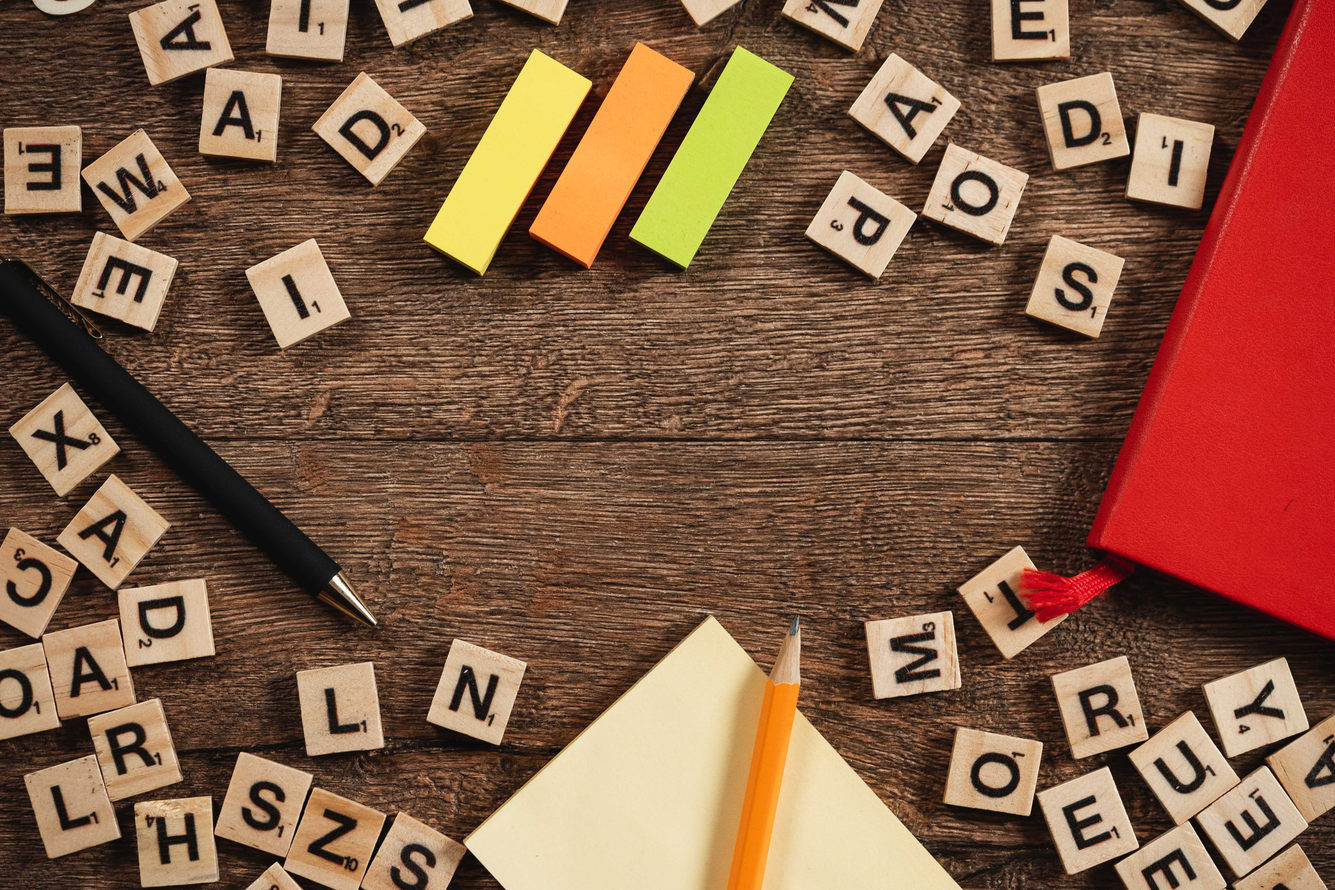
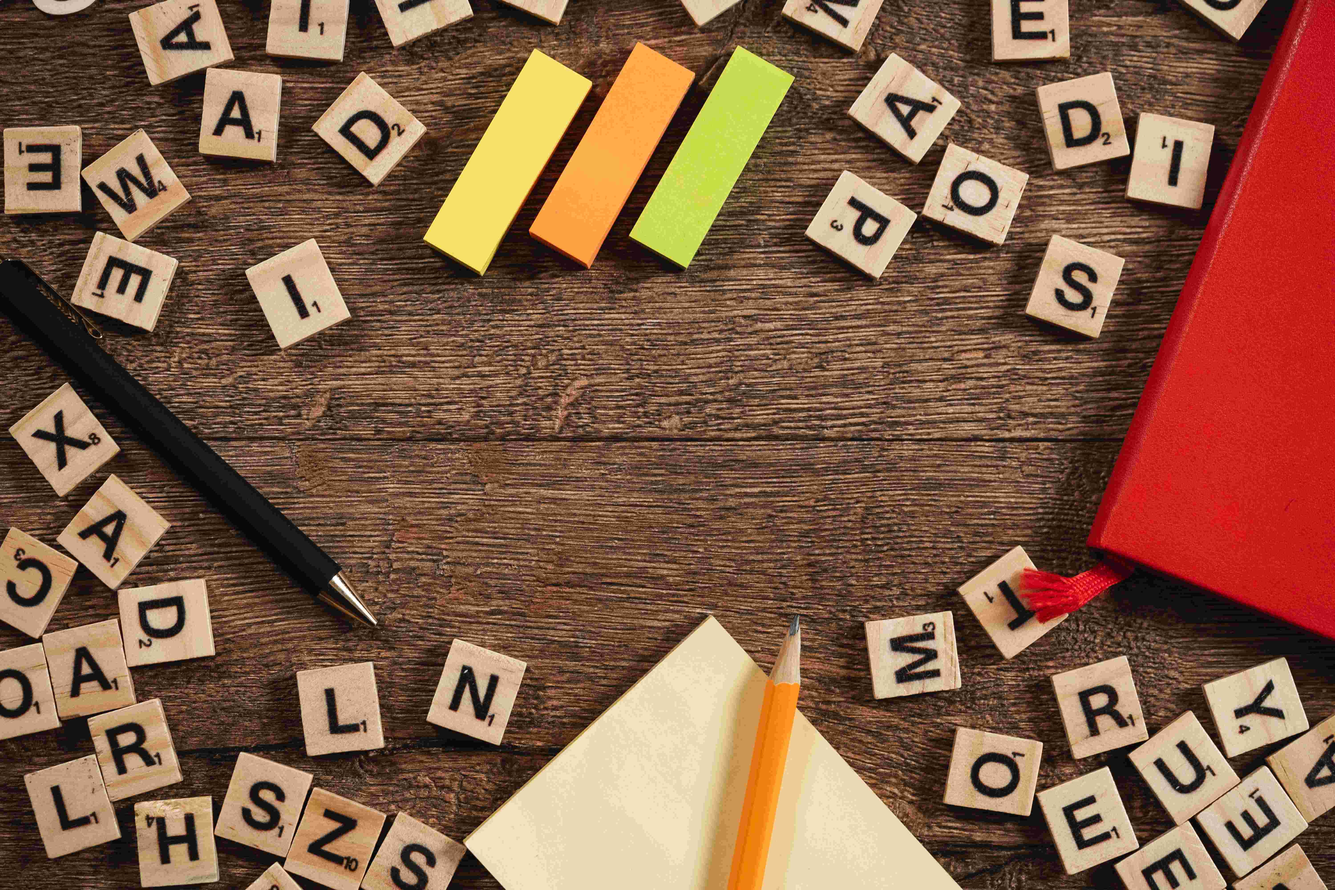
docs: RDS사용으로 인한 application.properties 문서 수정
RDS를 사용해서 db설정 변경됨
추가적으로 로그인 이미지 용량 감소

diff --git a/board-back/BACKEND_SETUP.md b/board-back/BACKEND_SETUP.md
@@ -16,7 +16,7 @@ secret-key=YOUR_DEPLOY_SECRET_KEY
 ## 데이터베이스 설정
 
 spring.datasource.driver-class-name=com.mysql.cj.jdbc.Driver
-spring.datasource.url=jdbc:mysql://127.0.0.1:3306/[데이터베이스명]?serverTimezone=UTC&characterEncoding=UTF-8
+spring.datasource.url=jdbc:mysql://[RDS엔드포인트]/[데이터베이스명]?serverTimezone=UTC&characterEncoding=UTF-8
 spring.datasource.username=[유저명]
 spring.datasource.password=[패스워드]
 
